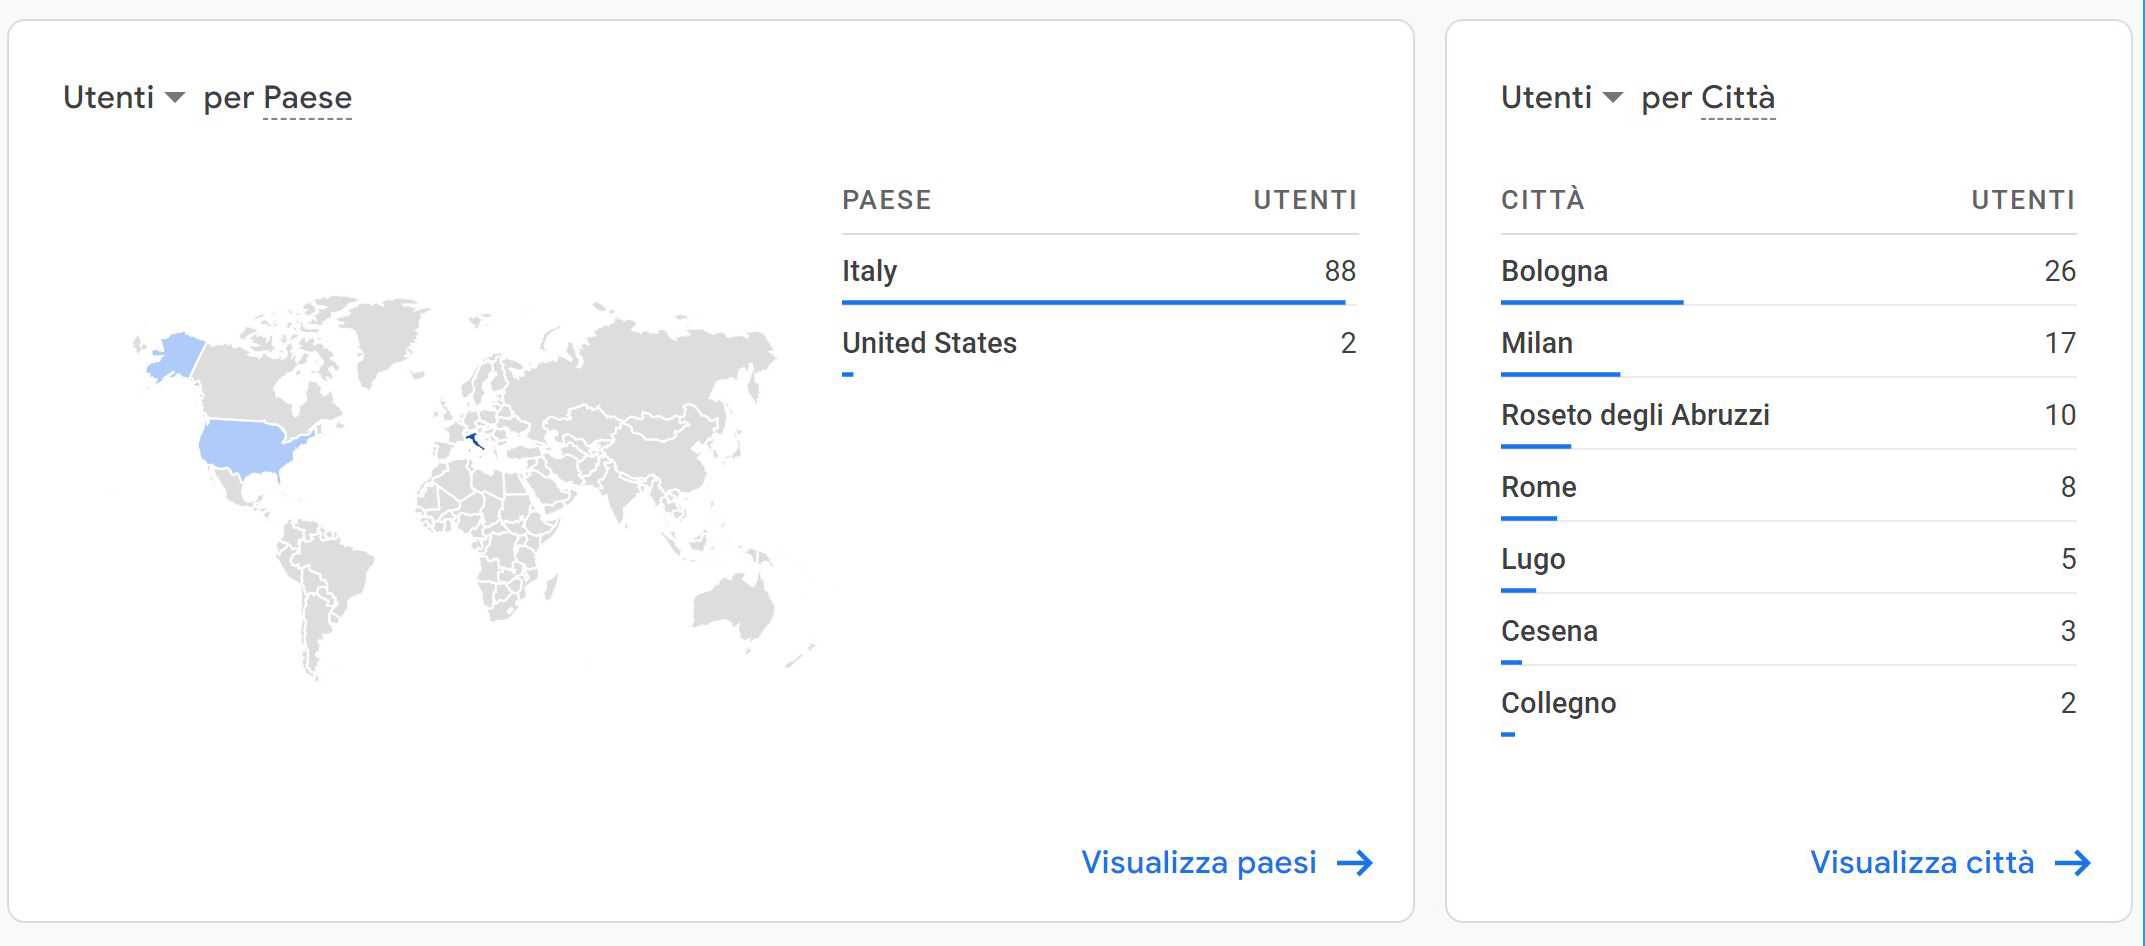
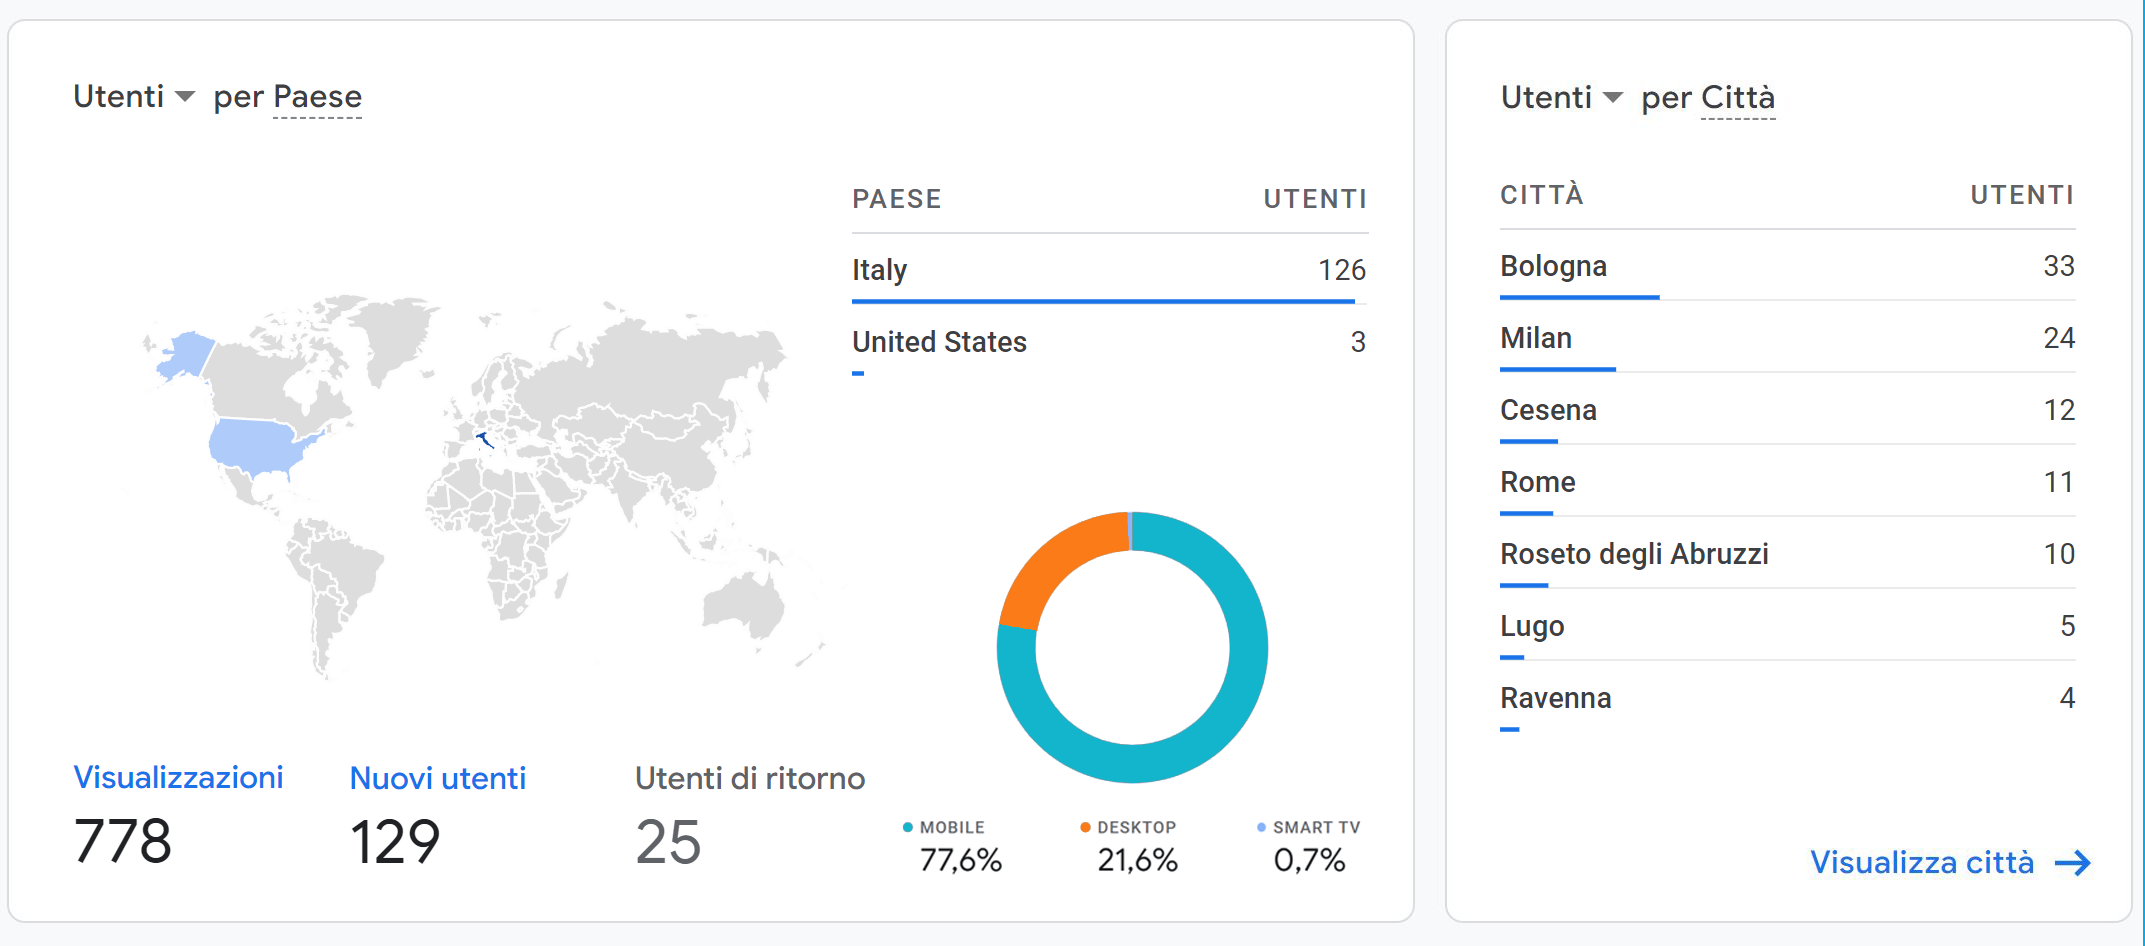
change documentazione

diff --git a/pages/documentazione.js b/pages/documentazione.js
@@ -272,50 +272,51 @@ export default function Home() {
         </Row>
         
         <h3 className='text-center display-6 mt-2' id="24">Valutazione dei risultati</h3><Row className="d-flex flex-column align-items-center">
+          <p className='text-center'>Dati aggiornati a 26/05/2022 alle 9.00</p>
           <Col md={9}>
             <h4 className='text-center mt-1'>50 visite al sito da utenti unici</h4>
             <Row className="d-flex align-items-center">
               <Col md={4}>
                 <p>
-                  Ritengo che l’obiettivo comunicativo sia stato pienamente raggiunto, infatti, nonostante il sito sia online da neanche una settimana,
-                  ha contato XX visualizzazioni da utenti unici, superando ampiamente i 50 dell'obbiettivo. <br/>
+                  Ritengo che l’obiettivo comunicativo sia stato pienamente raggiunto, infatti, nonostante il sito sia online da appena una settimana,
+                  ha contato 129 visualizzazioni da utenti unici, superando ampiamente i 50 dell'obbiettivo. <br/>
                   Inoltre si può vedere come le previsioni del target (popolazione italiana) e dei dispositivi (mobile) sia stata rispettata.
                 </p>
               </Col>          
-              <Col md={8}><img src='./graph/analytics.png' className='w-100 border' alt="retro brochure pubblicitaria di Play"/></Col>
+              <Col md={8}><img src='./graph/analytics.png' className='w-100 border' alt="google analytics delle visualizzazioni dell'utente"/></Col>
             </Row>
-            <h4 className='text-center mt-2'>20 like a un post del profilo instagram</h4>          
+            <h4 className='text-center mt-4'>20 like a un post del profilo instagram</h4>          
             <Row className="d-flex align-items-center">
-              <Col md={7}><img src='./graph/post.png' className='w-75' alt="retro brochure pubblicitaria di Play"/></Col>
-              <Col md={5}>
+              <Col md={7}><img src='./graph/post.png' className='w-100' alt="Insights dei like dei post dell'account instagram"/></Col>
+              <Col md={5} className='text-center'>
                 <p>
                   Essendo instagram il mezzo scelto per la promozione, i post sono creati per invogliare l'utente a 
-                  guardare il sito web, motivo per il quale l'obiettivo riguardo al numero dei like non è particolarmente altro.<br/>
-                  <a class='text-light' href='https://www.instagram.com/p/CdEWHSTj7E1/?utm_source=ig_web_copy_link'>Post</a>
+                  guardare il sito web, più che per raccogliere like, motivo per il quale l'obiettivo riguardo al numero dei like non è particolarmente alto.<br/>
                 </p>
+                <a class='text-light mt-2' href='https://www.instagram.com/p/CdEWHSTj7E1/?utm_source=ig_web_copy_link'>Post</a>
               </Col>
               </Row>
-            <h4 className='text-center mt-2'>Raggiungere almeno 100 account su instagram</h4>
+            <h4 className='text-center mt-4'>Raggiungere almeno 100 account su instagram</h4>
             <Row className="d-flex align-items-center">
-              <Col md={6}>
+              <Col md={5}>
                 <p>
                   Invece ho ritenuto più rilevante fissare un obiettivo inerente alla copertura dell'account e quanti profili riusciva a raggiungere.
                   Per vedere a quanti utenti riuscisse ad arrivare la promozione del sito.
                 </p>
               </Col>
-              <Col md={6} className='text-end'><img src='./graph/impression.png' className='w-75 px-4' alt="retro brochure pubblicitaria di Play"/></Col>
+              <Col md={7} className='text-end'><img src='./graph/impression.png' className='w-100 px-4' alt="Insights della copertura dell'account instagram"/></Col>
               </Row>
-            <h4 className='text-center mt-2'>Avere 20 visualizzazione al sito da instagram</h4>
+            <h4 className='text-center mt-4'>Avere 20 visualizzazione al sito da instagram</h4>
             <Row className="d-flex align-items-center">
-            <Col md={7}><img src='./graph/social.png' className='w-75' alt="retro brochure pubblicitaria di Play"/></Col>
-              <Col md={5}>
+            <Col md={8} className='pr-5'><img src='./graph/social.png' className='w-100 mr-5 pr-5' alt="Google analytics sui canali d'indirizzamento"/></Col>
+              <Col md={4}>
                 <p>
-                  Invece ho ritenuto più rilevante fissare un obiettivo per monitorare quante persone visualizzassero il sito tramite i link inseriti sui
-                  social (instagram in questo caso).
+                  Infine ho ritenuto rilevante fissare un obiettivo per monitorare quante persone visualizzassero il sito tramite i link inseriti sui
+                  social (instagram in questo caso). Per capire se effetivamente fosse un buon canale di promozione.
                 </p>
               </Col>
               </Row>
-            <h4 className='text-center mt-3'>Produzione grafica - Brochure</h4>
+            <h4 className='text-center mt-5'>Produzione grafica - Brochure</h4>
           </Col>
         </Row>
         <Row className="d-flex align-items-center">
